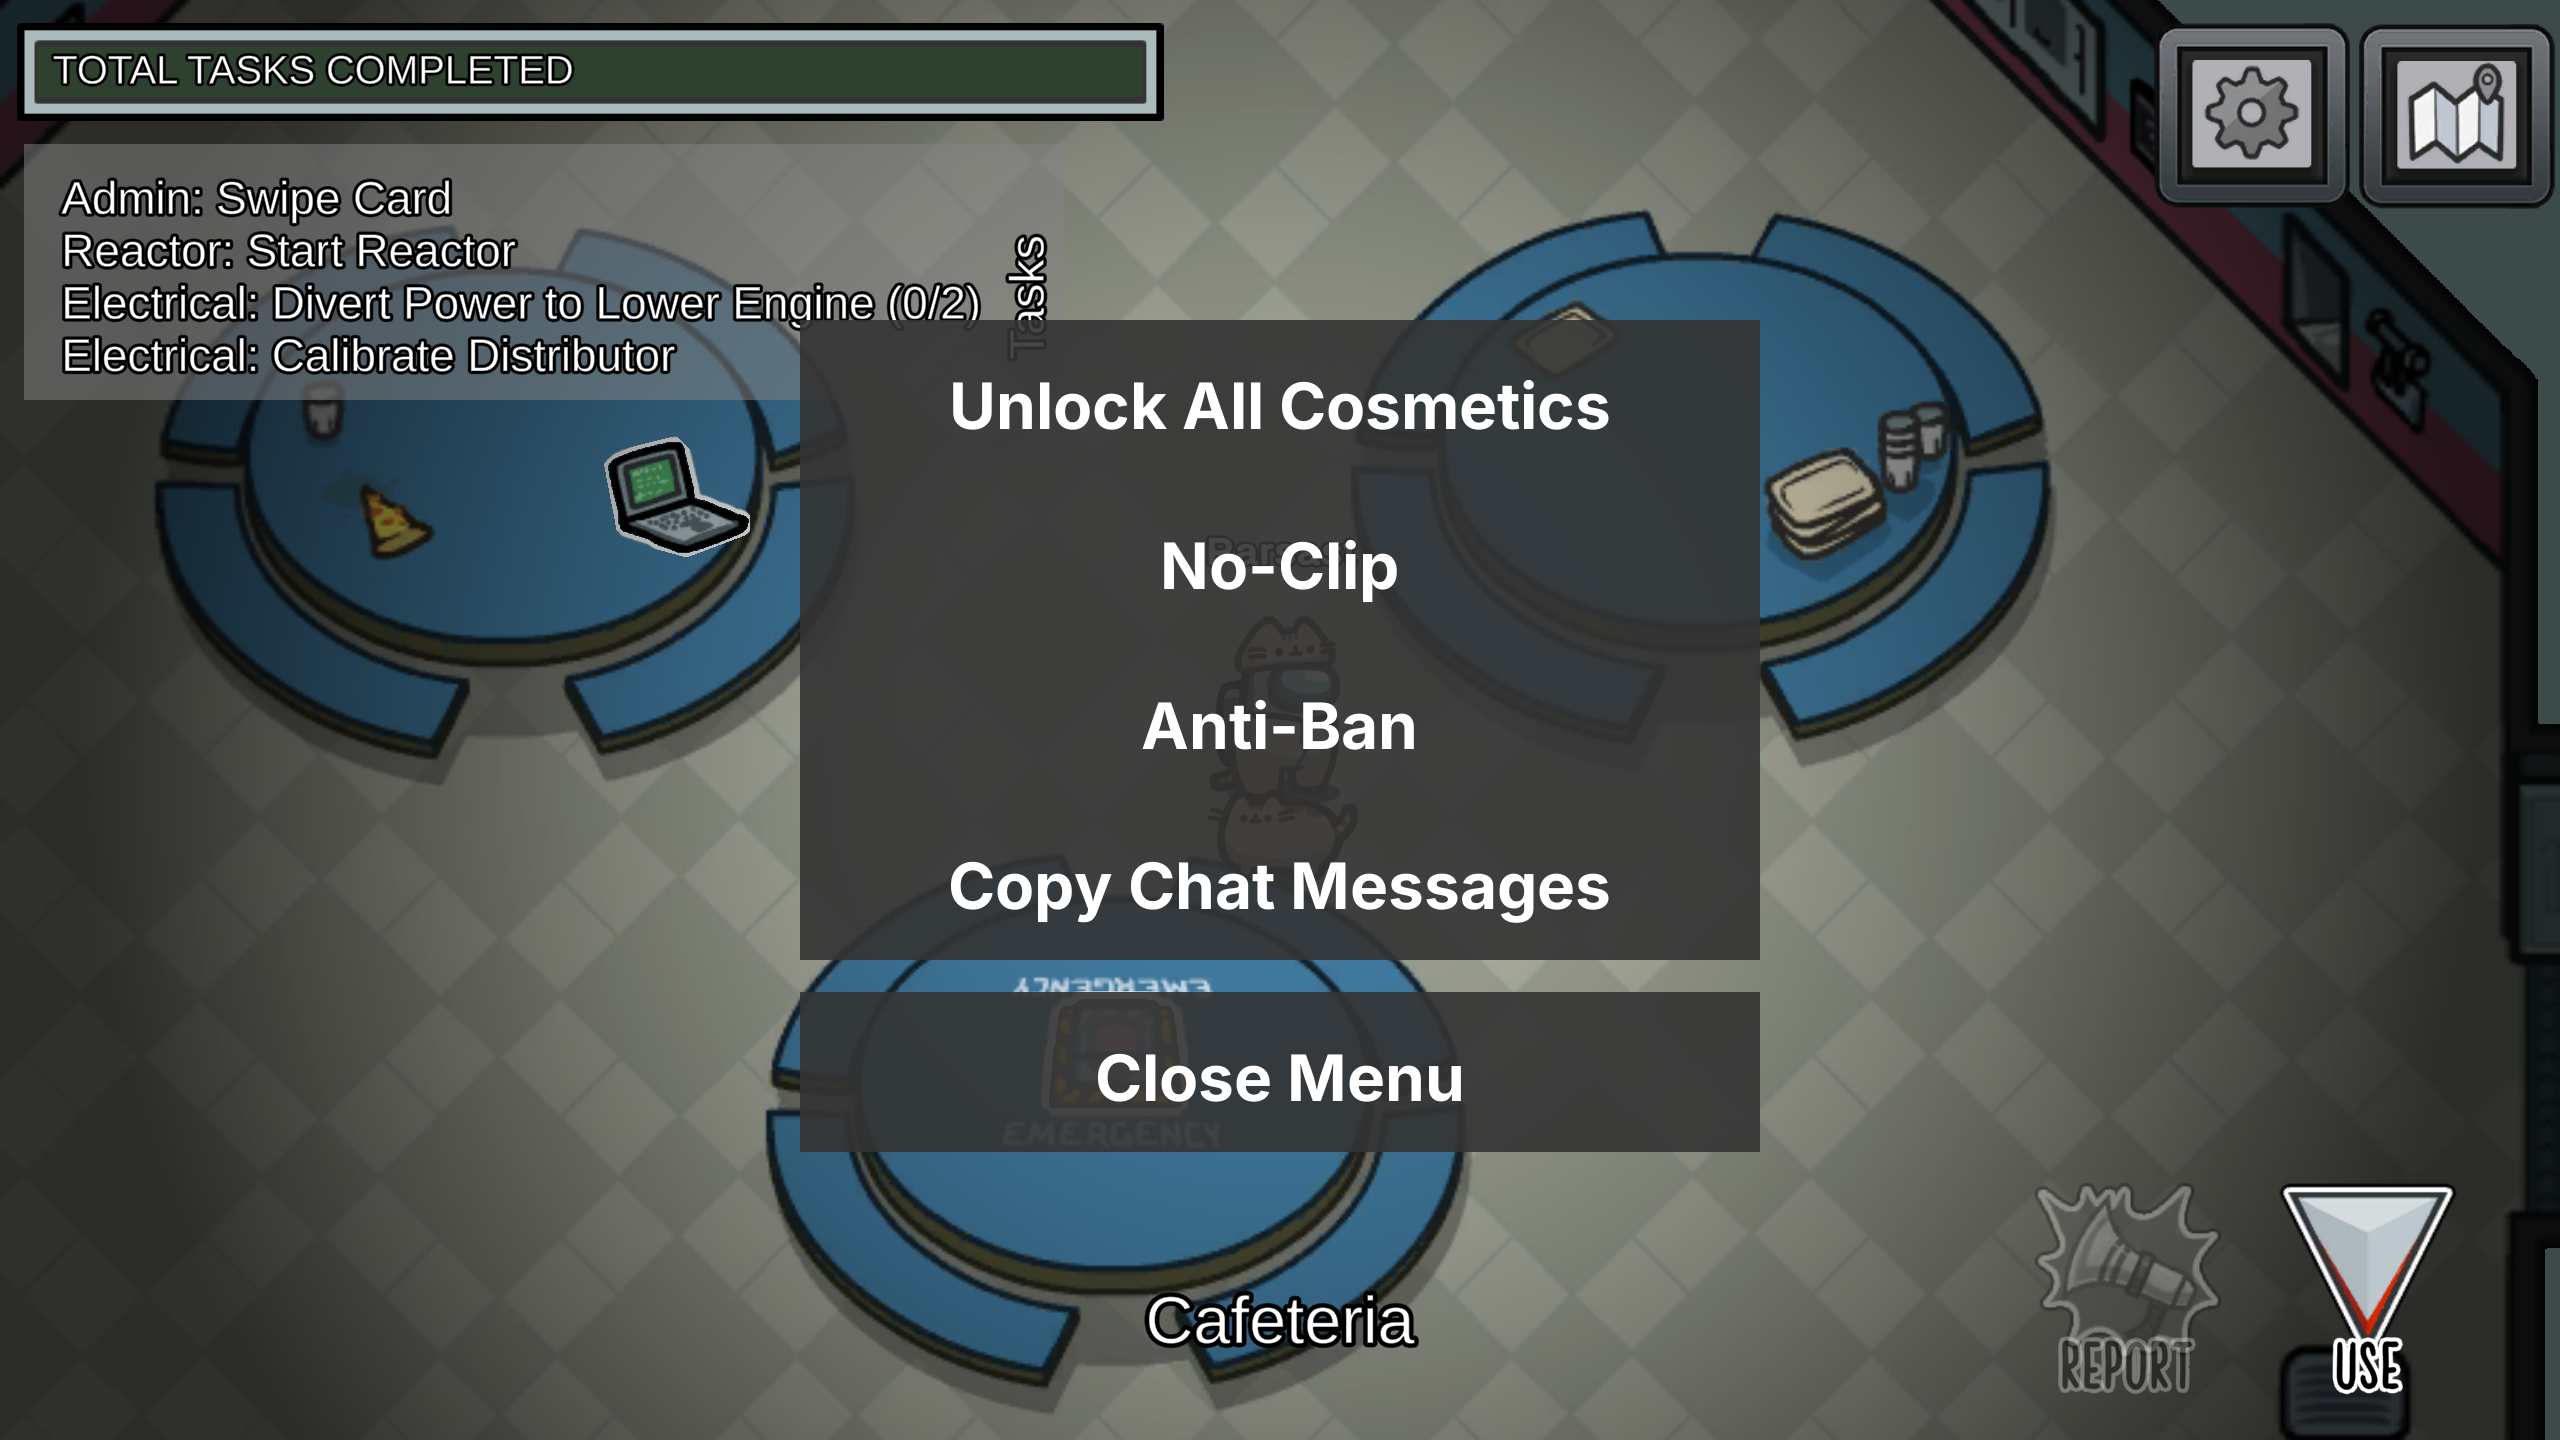
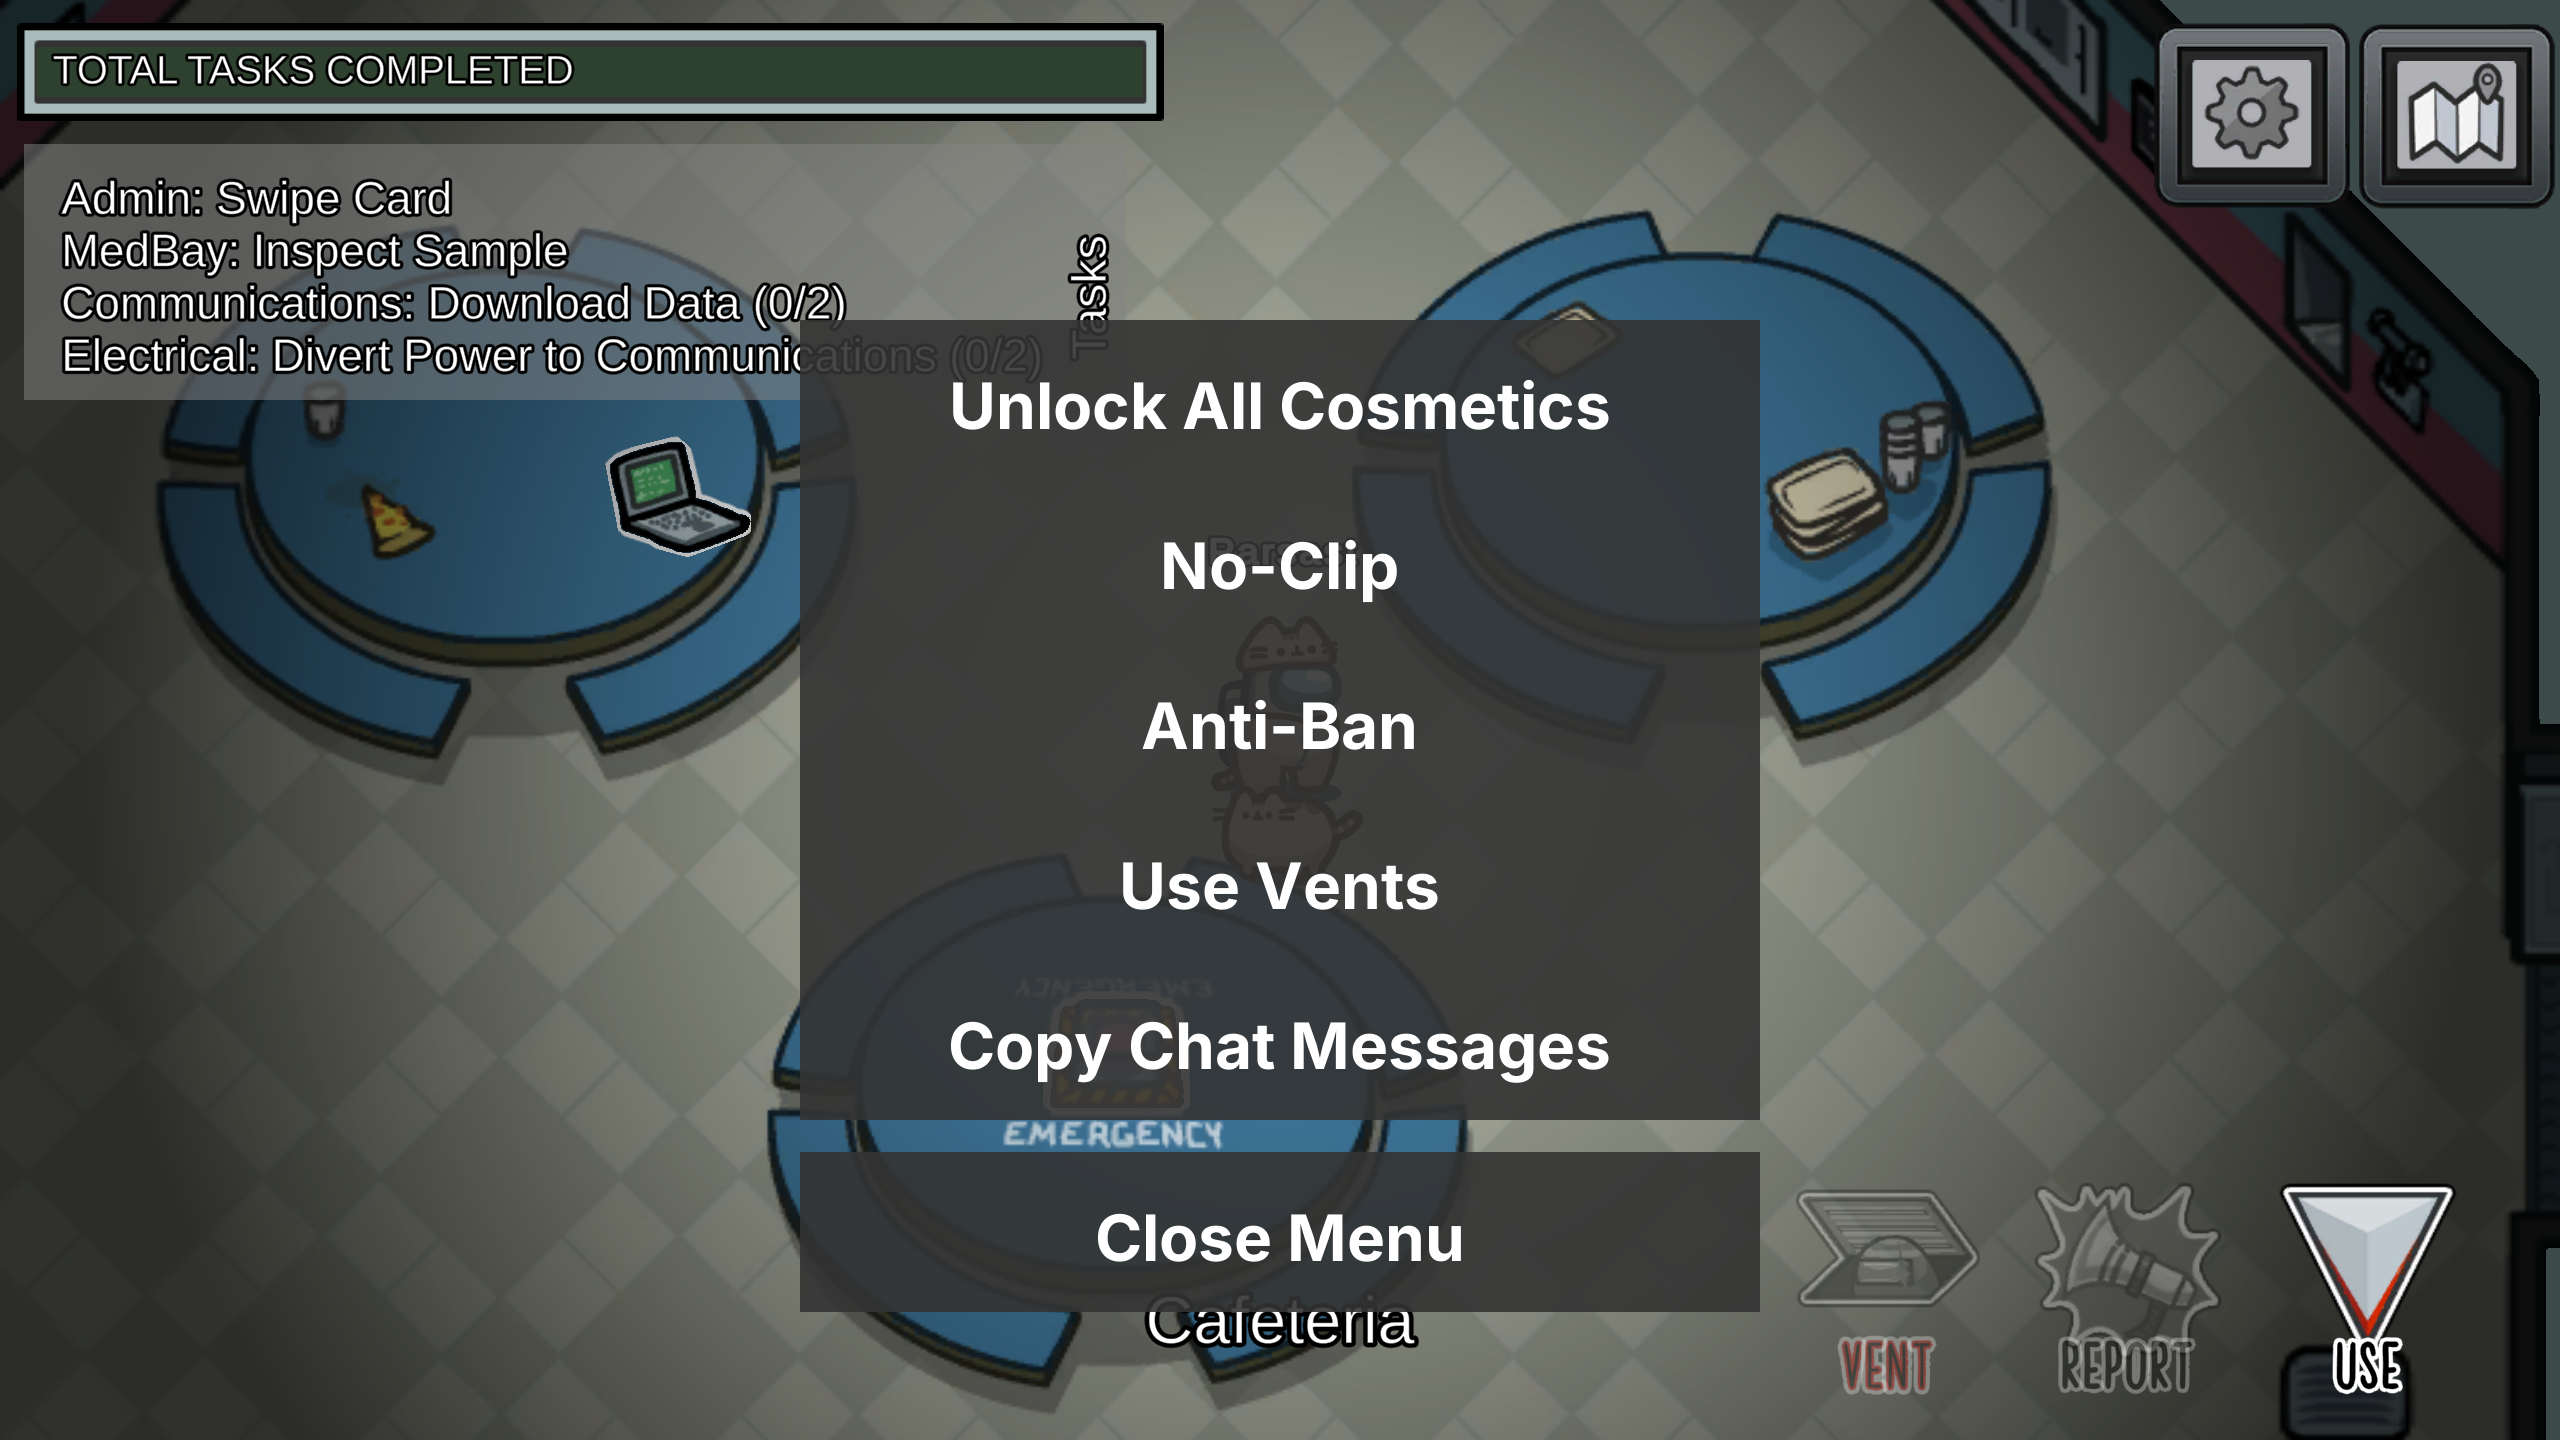
Added a new feature "Use Vents" and updated preview.

diff --git a/MainMod.cs b/MainMod.cs
@@ -1,3 +1,4 @@
+using AmongUsMenu;
 using BepInEx;
 using BepInEx.Unity.IL2CPP;
 using HarmonyLib;
@@ -6,7 +7,7 @@ using UnityEngine.UI;
 
 namespace AmongUsMenu
 {
-    [BepInPlugin("com.parsast.amongusmenu", "Among Us Menu", "v1.1.2")]
+    [BepInPlugin("com.parsast.amongusmenu", "Among Us Menu", "v1.1.3")]
     [BepInProcess("Among Us.exe")]
     public class MainMod : BasePlugin
     {
@@ -52,8 +53,9 @@ namespace AmongUsMenu
             AddButton(panel.transform, "Unlock All Cosmetics", new Vector2(0, 100), ToggleUnlockAllCosmetics);
             AddButton(panel.transform, "No-Clip", new Vector2(0, 50), ToggleNoClip);
             AddButton(panel.transform, "Anti-Ban", new Vector2(0, 0), ToggleAntiBan);
-            AddButton(panel.transform, "Copy Chat Messages", new Vector2(0, -50), ToggleCopyChatMessages);
-            AddButton(panel.transform, "Close Menu", new Vector2(0, -110), () => menu?.SetActive(false));
+            AddButton(panel.transform, "Use Vents", new Vector2(0, -50), ToggleUseVents);
+            AddButton(panel.transform, "Copy Chat Messages", new Vector2(0, -100), ToggleCopyChatMessages);
+            AddButton(panel.transform, "Close Menu", new Vector2(0, -160), () => menu?.SetActive(false));
 
             menu.SetActive(false);
         }
@@ -137,6 +139,13 @@ namespace AmongUsMenu
             Logger.LogInfo($"Anti-Ban: {(configData.AntiBan ? "Activated" : "Deactivated")}");
         }
 
+        private static void ToggleUseVents()
+        {
+            configData.UseVents = !configData.UseVents;
+            ConfigLoader.SaveSettings(configData);
+            Logger.LogInfo($"Use Vents: {(configData.UseVents ? "Activated" : "Deactivated")}");
+        }
+
         private static void ToggleCopyChatMessages()
         {
             configData.CopyChatMessages = !configData.CopyChatMessages;
@@ -162,20 +171,62 @@ namespace AmongUsMenu
             public static void Postfix(PlayerPhysics __instance)
             {
                 if (PlayerControl.LocalPlayer?.Collider == null) return; // Prevents errors
- 
+
                 PlayerControl.LocalPlayer.Collider.enabled = !configData.NoClip;
             }
         }
     }
 
     [HarmonyPatch(typeof(StatsManager), nameof(StatsManager.AmBanned), MethodType.Getter)]
-        public static class AmBannedPatch
+    public static class AmBannedPatch
+    {
+        public static void Postfix(ref bool __result)
         {
-            public static void Postfix(ref bool __result)
+            if (MainMod.configData.AntiBan)
             {
-                if (MainMod.configData.AntiBan)
+                __result = false;
+            }
+        }
+    }
+
+    [HarmonyPatch(typeof(HudManager), nameof(HudManager.Update))]
+    public static class HudManagerUpdatePatch
+    {
+        public static void Postfix(HudManager __instance)
+        {
+            if (!PlayerControl.LocalPlayer.Data.Role.CanVent && !PlayerControl.LocalPlayer.Data.IsDead)
+            {
+                __instance.ImpostorVentButton.gameObject.SetActive(MainMod.configData.UseVents);
+            }
+        }
+    }
+
+    [HarmonyPatch(typeof(Vent), nameof(Vent.CanUse))]
+    public static class VentCanUse
+    {
+        public static void Postfix(Vent __instance, NetworkedPlayerInfo pc, ref bool canUse, ref bool couldUse, ref float __result)
+        {
+            if (MainMod.configData.UseVents && !PlayerControl.LocalPlayer.Data.Role.CanVent && !PlayerControl.LocalPlayer.Data.IsDead)
+            {
+                float num = Vector2.Distance(pc.Object.Collider.bounds.center, __instance.transform.position);
+
+                canUse = num <= __instance.UsableDistance && !PhysicsHelpers.AnythingBetween(pc.Object.Collider, pc.Object.Collider.bounds.center, __instance.transform.position, Constants.ShipOnlyMask, false);
+                couldUse = true;
+                __result = num;
+            }
+        }
+    }
+
+    [HarmonyPatch(typeof(TextBoxTMP), nameof(TextBoxTMP.Update))]
+    public static class TextBoxTMPUpdate
+    {
+        public static void Postfix(TextBoxTMP __instance)
+        {
+            if (MainMod.configData.CopyChatMessages && __instance.hasFocus)
+            {
+                if ((Input.GetKey(KeyCode.LeftControl) || Input.GetKey(KeyCode.RightControl)) && Input.GetKeyDown(KeyCode.C))
                 {
-                    __result = false;
+                    ClipboardHelper.PutClipboardString(__instance.text);
                 }
             }
         }
@@ -192,20 +243,5 @@ namespace AmongUsMenu
                 }
             }
         }
-
-        [HarmonyPatch(typeof(TextBoxTMP), nameof(TextBoxTMP.Update))]
-        public static class TextBoxTMPUpdate
-        {
-            public static void Postfix(TextBoxTMP __instance)
-            {
-                if (MainMod.configData.CopyChatMessages && __instance.hasFocus)
-                {
-                    if ((Input.GetKey(KeyCode.LeftControl) || Input.GetKey(KeyCode.RightControl)) && Input.GetKeyDown(KeyCode.C))
-                    {
-                        ClipboardHelper.PutClipboardString(__instance.text);
-                    }
-                }
-            }
-        }
     }
-
+}

diff --git a/ConfigLoader.cs b/ConfigLoader.cs
@@ -11,6 +11,7 @@
                 $"UnlockAllCosmetics={config.UnlockAllCosmetics}",
                 $"NoClip={config.NoClip}",
                 $"AntiBan={config.AntiBan}",
+                $"UseVents={config.UseVents}",
                 $"CopyChatMessages={config.CopyChatMessages}"
             };
 
@@ -60,6 +61,9 @@
                             case "AntiBan":
                                 configData.AntiBan = bool.TryParse(parts[1], out var ban) && ban;
                                 break;
+                            case "UseVents":
+                                configData.UseVents = bool.TryParse(parts[1], out var vents) && vents;
+                                break;
                             case "CopyChatMessages":
                                 configData.CopyChatMessages = bool.TryParse(parts[1], out var copy) && copy;
                                 break;
@@ -83,6 +87,7 @@
         public bool UnlockAllCosmetics { get; set; } = false;
         public bool NoClip { get; set; } = false;
         public bool AntiBan { get; set; } = false;
+        public bool UseVents { get; set; } = false;
         public bool CopyChatMessages { get; set; } = false;
     }
 }

diff --git a/AssemblyInfo.cs b/AssemblyInfo.cs
@@ -1,6 +1,6 @@
 using System.Reflection;
 [assembly: AssemblyTitle("Among Us Menu")]
 [assembly: AssemblyCopyright("© Parsast")]
-[assembly: AssemblyFileVersion("1.1.2.0")]
-[assembly: AssemblyInformationalVersion("v1.1.2")]
+[assembly: AssemblyFileVersion("1.1.3.0")]
+[assembly: AssemblyInformationalVersion("v1.1.3")]
 [assembly: AssemblyProduct("Among Us Menu")]
